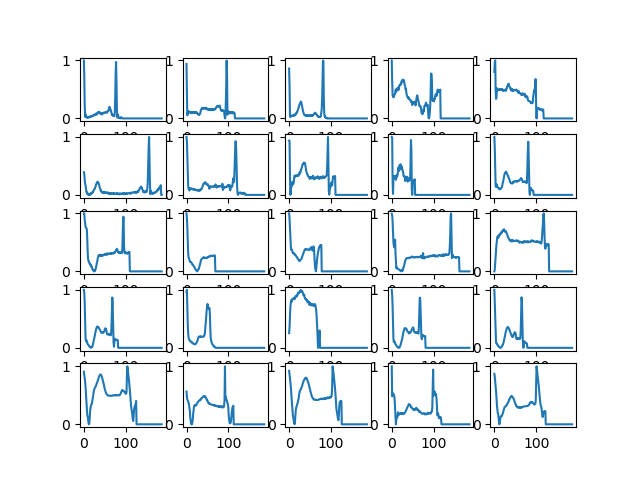
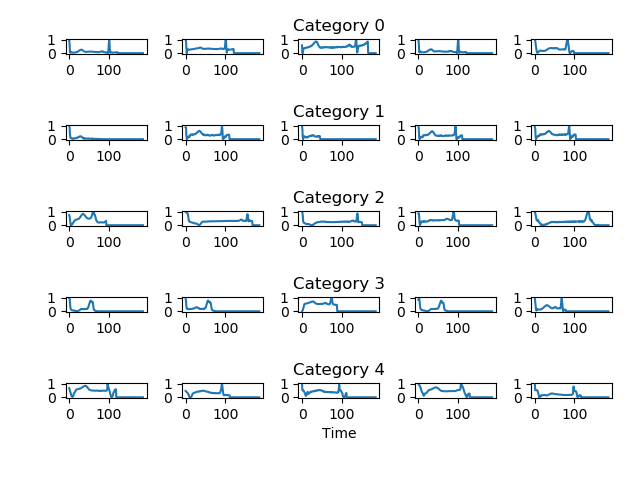
update visualisation

Changed region(s): [[0.0625, 0.0312, 0.9688, 0.9375]]

diff --git a/ecg_arrythmia_analysis/code/visualization.py b/ecg_arrythmia_analysis/code/visualization.py
@@ -39,16 +39,21 @@ def vis_data(data, n_example):
     idx = [np.where(y == c)[0] for c in cat]
 
     n_row = len(cat)
-    cur_plt = 1
 
-    for c in cat:
+    fig, ax = plt.subplots(nrows = n_row, ncols=1, sharex = True, sharey= True)
+    plt.xlabel("Time")
+    plt.ylabel('Amplitude')
+    for c_idx, c in enumerate(cat):
         sample = np.random.choice(idx[c],n_example)
-        for i in sample:
-            plt.subplot(n_row, n_example, cur_plt)
+        ax[c_idx].set(title = 'Category {}'.format(c))
+        #ax[c_idx].set_ylabel("Amplitude")
+        ax[c_idx].set_frame_on(False)
+        ax[c_idx].tick_params(labelcolor=(1.,1.,1., 0.0), top='off', bottom='off', left='off', right='off')
+        for count, i in enumerate(sample, start = 1):
+            fig.add_subplot(n_row, n_example, c_idx*n_example + count)
+            #plt.subplot(n_row, n_example, cur_plt)
             plt.plot(range(x[0].shape[0]), x[i])
-            cur_plt += 1
 
-    #plt.show()
     filename = 'ecg_arrythmia_analysis/figures/{}'
+    plt.tight_layout()
     plt.savefig(filename.format(data))
-    pass

diff --git a/ecg_arrythmia_analysis/analysis.py b/ecg_arrythmia_analysis/analysis.py
@@ -28,9 +28,9 @@ SPEC_LIST = {'cnn': CNN_SPECS,
 # VISUALIZATION
 print("VISUALIZATION")
 
-vis_data('mitbih', 5)
-
-
+n_examples = 5
+vis_data('mitbih', n_examples)
+vis_data('ptbdb', n_examples)
 
 # Individual visualization mitbih
 # Individual visualization ptbdb
